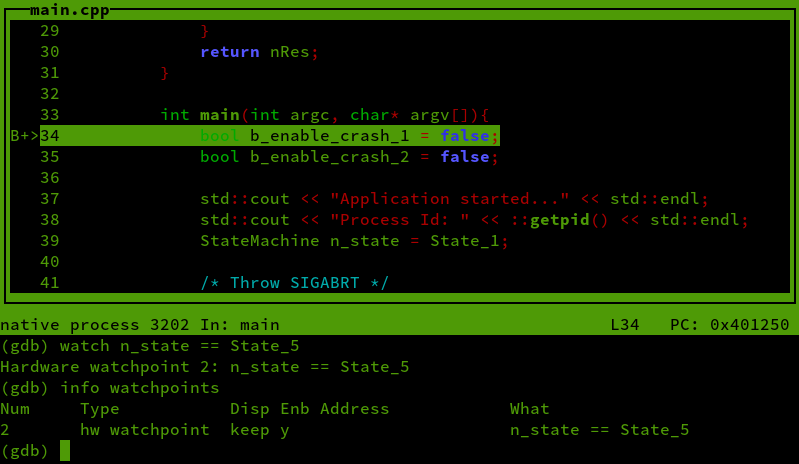
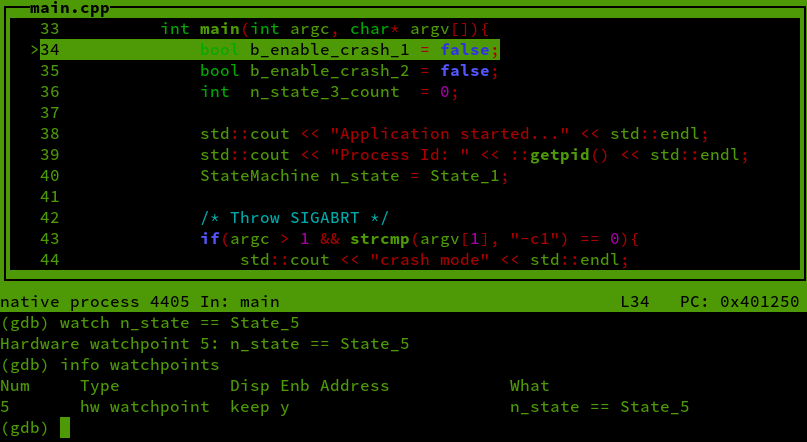
additional variable added

diff --git a/main.cpp b/main.cpp
@@ -33,6 +33,7 @@ int zeroDivide(){
 int main(int argc, char* argv[]){
     bool b_enable_crash_1 = false;
     bool b_enable_crash_2 = false;
+    int  n_state_3_count  = 0;
 
     std::cout << "Application started..." << std::endl;
     std::cout << "Process Id: " << ::getpid() << std::endl;
@@ -62,6 +63,7 @@ int main(int argc, char* argv[]){
             break;
         case State_3:
             std::cout << "State_3 reached" << std::flush;
+            n_state_3_count++;
             n_state = State_4;
             break;
         case State_4:
